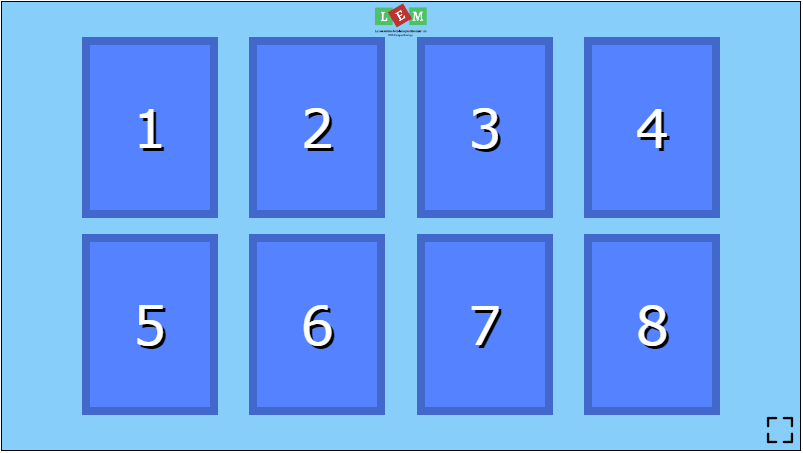
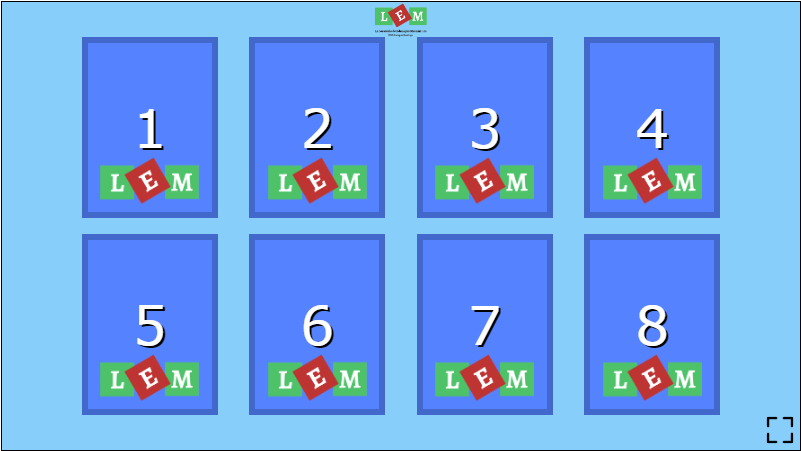
pequena mudança maiores menores

diff --git a/css/abracaixa.css b/css/abracaixa.css
@@ -295,27 +295,33 @@
                         content: counter(section);
                     }
                 }
-                .certo {
+
+                .certo, .errado {
                     display: flex;
                     align-items: center;
-                    &::after{
+                    &::before{
                         content: "";
-                        background: url('../imagens/icones/certo.png') no-repeat;
-                        background-size: 100%;
+                        position: absolute;
                         width: 100%;
-                        height: 95%;
+                        height: 100%;
+                        z-index: 4;
+                    } 
+                }
+                .certo {
+                    &::before{
+                        content: "";
+                        background: url('../imagens/icones/certo.png') no-repeat;                        
+                        background-size: 100%;
+                        background-position: center;
                     }                   
                 }
                 .errado {
-                    display: flex;
-                    align-items: center;
-                    &::after{
-                        content: "";
-                        background: url('../imagens/icones/errado.png') no-repeat;
+                    &::before {
+                        content: "";                    
+                        background: url('../imagens/icones/errado.png') no-repeat;                        
                         background-size: 100%;
-                        width: 100%;
-                        height: 82%;
-                    }  
+                        background-position: center;
+                    }                    
                 }
 
             }

diff --git a/css/maiormenor.css b/css/maiormenor.css
@@ -2,12 +2,13 @@
     width: 68%;
     height: 80%;
     display: flex;
-    justify-content: space-around;
+    justify-content: center;
+    gap: 1%;
     align-items: center;
     flex-wrap: wrap;
     .mm-div {   
         aspect-ratio: 4/3;
-        width: 32%;
+        width: 30%;
         > figure {
             height: 70%;
             > a, img {
